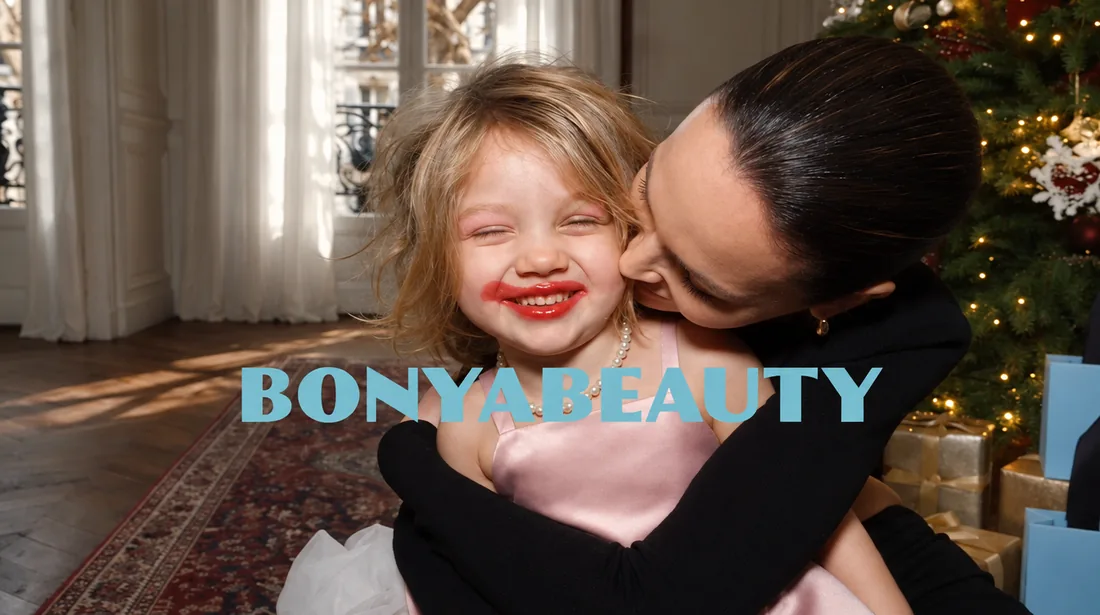
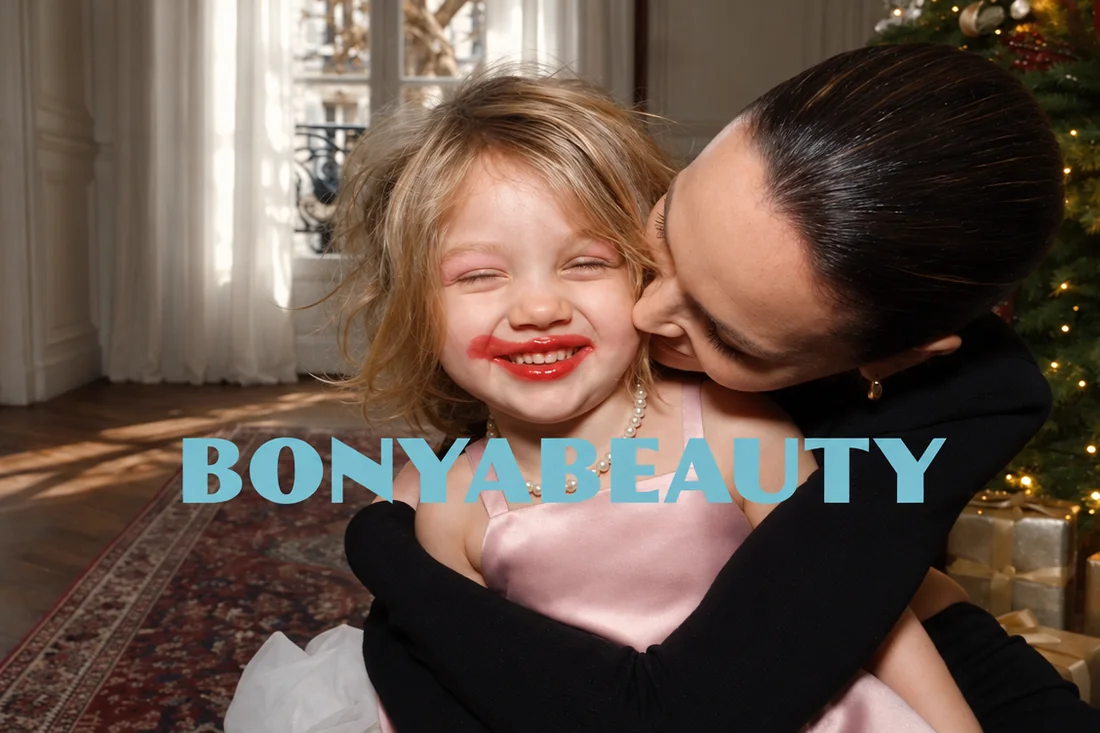
Кадр «Маленькой леди» поквадратнее, правая пара колонок уже
- обложка подрезана с 16:9 до 3:2. Один кроп делает плитку выше,
  а не уже, поэтому вместе с ним
- правая пара колонок сужена до 0.78 от обычной: две самые большие
  плитки забирали треть ширины и давили соседей. Теперь обычная плитка
  241 вместо 223, «главная» 385 вместо 456

Внутри раздела и на телефоне сетка прежняя, там равные колонки.

diff --git a/en/index.html b/en/index.html
@@ -392,6 +392,10 @@ section{scroll-margin-top:calc(var(--nav-h) + 10px)}
    шестиколоночной — событие ресайза до него не доходило.
    1280px — ширина, с которой колонок заведомо шесть. */
 @media(min-width:1280px){
+  /* Правая пара колонок уже остальных: две самые большие плитки забирали
+     треть ширины и давили соседей. Теперь они чуть компактнее, а четыре
+     обычные колонки — заметно шире */
+  .gal:not(.gal--filtered){grid-template-columns:repeat(4,1fr) repeat(2,.78fr)}
   .gal:not(.gal--filtered) .card{grid-column-start:var(--col,auto)}
   /* широкой плитке мало задать начало: grid-column-start стирает размах
      из сокращённой записи, и она схлопывается в одну колонку */

diff --git a/index.html b/index.html
@@ -392,6 +392,10 @@ section{scroll-margin-top:calc(var(--nav-h) + 10px)}
    шестиколоночной — событие ресайза до него не доходило.
    1280px — ширина, с которой колонок заведомо шесть. */
 @media(min-width:1280px){
+  /* Правая пара колонок уже остальных: две самые большие плитки забирали
+     треть ширины и давили соседей. Теперь они чуть компактнее, а четыре
+     обычные колонки — заметно шире */
+  .gal:not(.gal--filtered){grid-template-columns:repeat(4,1fr) repeat(2,.78fr)}
   .gal:not(.gal--filtered) .card{grid-column-start:var(--col,auto)}
   /* широкой плитке мало задать начало: grid-column-start стирает размах
      из сокращённой записи, и она схлопывается в одну колонку */
